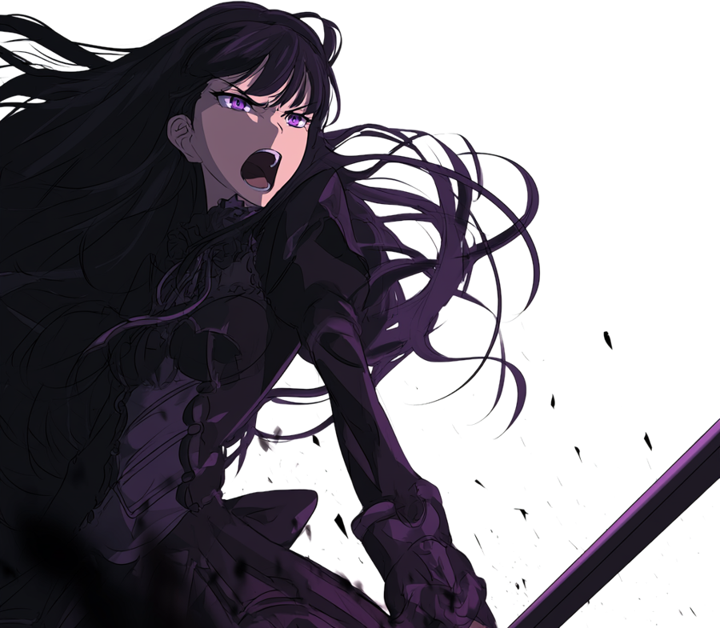
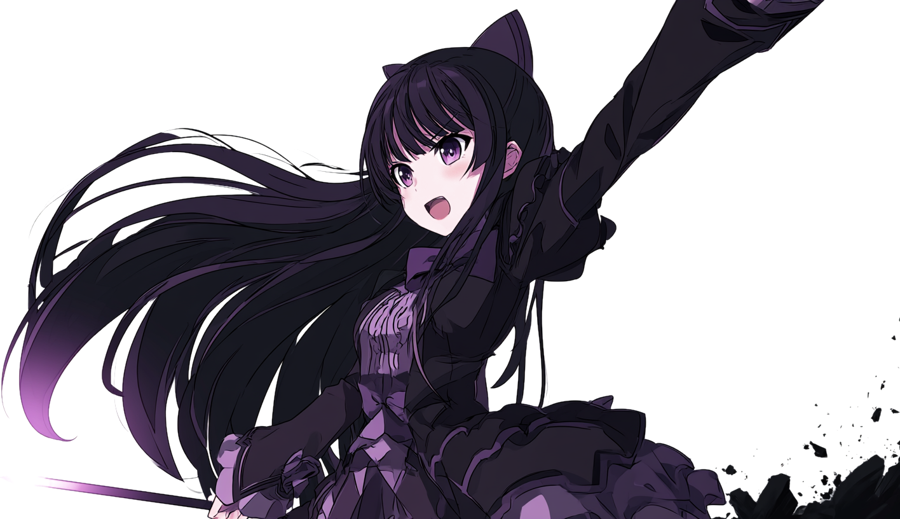
神招きの絵を指定の1枚に差し替え、踏破後の計算量に上限、ラスボス体力を強化
- 神招きカットイン：祈りの絵（16:9）を顔側に寄せて大きく敷き、名と台詞を下部に重ねる
- 踏破後（祟りの参道）は波の総量を頭打ち、敵弾150・雑魚34の同時上限で処理落ちとメモリ増を抑える
- 衝突シグナル中の生成で出ていた monitoring/monitorable のエラーを set_deferred で解消
- ラスボスの体力 1.6倍 → 2.8倍
- やさしい叫び顔の透過ポートレートを更新（予備）、cutout ツールに閾値引数
- --cleartest --long で踏破後150秒のメモリ・ノード数を計測できるように

Claude-Session: https://claude.ai/code/session_01NvwvnJ5xV1uwhkABBUJ9wU

diff --git a/tools/cutout_white_bg.py b/tools/cutout_white_bg.py
@@ -3,11 +3,13 @@ import sys, os
 from PIL import Image, ImageFilter
 import numpy as np
 src, dst = sys.argv[1], sys.argv[2]
+lo = float(sys.argv[3]) if len(sys.argv) > 3 else 18.0   # これ未満の白距離は透明
+hi = float(sys.argv[4]) if len(sys.argv) > 4 else 78.0   # これ以上は不透明
 im = Image.open(src).convert("RGB")
 a = np.asarray(im).astype(np.float32)
 # 白からの距離（0=白）
 dist = np.sqrt(((255.0 - a) ** 2).sum(axis=2))
-alpha = np.clip((dist - 18.0) / 60.0, 0.0, 1.0)  # 18 未満は透明、78 以上は不透明
+alpha = np.clip((dist - lo) / max(hi - lo, 1.0), 0.0, 1.0)
 # 髪など暗い部分は 1、背景の薄い影は消える
 al = Image.fromarray((alpha * 255).astype(np.uint8)).filter(ImageFilter.GaussianBlur(0.8))
 rgba = im.convert("RGBA"); rgba.putalpha(al)
